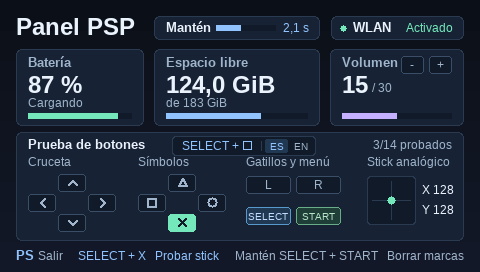
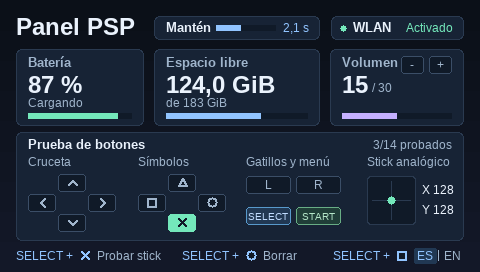
Group shortcuts in the panel footer

Changed region(s): [[0.0312, 0.9118, 0.9688, 0.9706], [0.3438, 0.5, 0.6562, 0.5882]]

diff --git a/panel.c b/panel.c
@@ -313,30 +313,10 @@ static const Button buttons[] = {
     {PSP_CTRL_VOLUP,    429,  56, 23, LABEL, "+"},
 };
 
-static void draw_button(uint32_t *pixels, const Button *button, const Panel *panel)
+static void draw_symbol(uint32_t *pixels, enum Symbol symbol, int cx, int cy,
+                        uint32_t ink, uint32_t fill)
 {
-    const int x = button->x, y = button->y, w = button->width;
-    const int cx = x + w / 2, cy = y + 8;
-    uint32_t rim = RGB(0x3b4e67);
-    uint32_t fill = well;
-    uint32_t ink = muted;
-
-    if (panel->pressed & button->mask) {
-        rim = fill = (panel->holding_complete & button->mask) ? hold_green : mint;
-        ink = well;
-    } else if (panel->validated & button->mask) {
-        rim = RGB(0x68ad85);
-        fill = RGB(0x203e38);
-        ink = RGB(0xb5e6c8);
-    } else if (panel->tested & button->mask) {
-        rim = RGB(0x5899cb);
-        fill = RGB(0x213853);
-        ink = RGB(0xc0dcff);
-    }
-    round_box(pixels, x, y, w, 18, 5, rim);
-    round_box(pixels, x + 1, y + 1, w - 2, 16, 4, fill);
-
-    switch (button->symbol) {
+    switch (symbol) {
     case UP:
         stroke(pixels, cx - 4, cy + 2, cx, cy - 2, ink);
         stroke(pixels, cx, cy - 2, cx + 4, cy + 2, ink);
@@ -370,12 +350,40 @@ static void draw_button(uint32_t *pixels, const Button *button, const Panel *pan
         box(pixels, cx - 5, cy - 4, 10, 10, ink);
         box(pixels, cx - 3, cy - 2, 6, 6, fill);
         break;
-    case LABEL: {
+    case LABEL:
+        break;
+    }
+}
+
+static void draw_button(uint32_t *pixels, const Button *button, const Panel *panel)
+{
+    const int x = button->x, y = button->y, w = button->width;
+    const int cx = x + w / 2, cy = y + 8;
+    uint32_t rim = RGB(0x3b4e67);
+    uint32_t fill = well;
+    uint32_t ink = muted;
+
+    if (panel->pressed & button->mask) {
+        rim = fill = (panel->holding_complete & button->mask) ? hold_green : mint;
+        ink = well;
+    } else if (panel->validated & button->mask) {
+        rim = RGB(0x68ad85);
+        fill = RGB(0x203e38);
+        ink = RGB(0xb5e6c8);
+    } else if (panel->tested & button->mask) {
+        rim = RGB(0x5899cb);
+        fill = RGB(0x213853);
+        ink = RGB(0xc0dcff);
+    }
+    round_box(pixels, x, y, w, 18, 5, rim);
+    round_box(pixels, x + 1, y + 1, w - 2, 16, 4, fill);
+
+    if (button->symbol == LABEL) {
         const Font *font = button->mask & (PSP_CTRL_SELECT | PSP_CTRL_START) ? &button_font : &small_font;
         draw_text(pixels, font, cx - text_width(font, button->label) / 2,
                   y + 13, button->label, ink);
-        break;
-    }
+    } else {
+        draw_symbol(pixels, button->symbol, cx, cy, ink, fill);
     }
 }
 
@@ -406,18 +414,36 @@ static void draw_background(uint32_t *pixels)
     }
 }
 
-static void draw_language_shortcut(uint32_t *pixels, enum PanelLanguage language)
+static const char shortcut_prefix[] = "SELECT +";
+enum { FOOTER_BASELINE = 260, FOOTER_ICON_GAP = 12 };
+
+static void draw_shortcut(uint32_t *pixels, int x, int action_offset, enum Symbol symbol)
 {
+    draw_text(pixels, &small_font, x, FOOTER_BASELINE, shortcut_prefix, blue);
+    draw_symbol(pixels, symbol, x + action_offset - FOOTER_ICON_GAP, FOOTER_BASELINE - 5, blue, well);
+}
+
+static void draw_panel_footer(uint32_t *pixels, enum PanelLanguage language)
+{
+    const char *stick = localized(language, "Probar stick", "Test stick");
+    const char *clear = localized(language, "Borrar", "Clear");
+    const int action_offset = text_width(&small_font, shortcut_prefix) + 2 * FOOTER_ICON_GAP;
+    const int clear_x = (PANEL_WIDTH - action_offset - text_width(&small_font, clear)) / 2;
+    const int language_x = 464 - action_offset - 50;
+    const int switch_x = language_x + action_offset;
     bool english = language == PANEL_ENGLISH;
-    round_box(pixels, 172, 136, 144, 20, 6, border);
-    round_box(pixels, 173, 137, 142, 18, 5, well);
-    draw_text(pixels, &small_font, 182, 150, "SELECT +", blue);
-    box(pixels, 243, 141, 9, 9, blue);
-    box(pixels, 244, 142, 7, 7, well);
-    box(pixels, 261, 141, 1, 10, border);
-    round_box(pixels, english ? 289 : 265, 139, 23, 14, 4, RGB(0x213853));
-    draw_text(pixels, &button_font, 270, 150, "ES", english ? muted : blue);
-    draw_text(pixels, &button_font, 294, 150, "EN", english ? blue : muted);
+
+    draw_shortcut(pixels, 16, action_offset, CROSS);
+    draw_text(pixels, &small_font, 16 + action_offset, FOOTER_BASELINE, stick, muted);
+
+    draw_shortcut(pixels, clear_x, action_offset, CIRCLE);
+    draw_text(pixels, &small_font, clear_x + action_offset, FOOTER_BASELINE, clear, muted);
+
+    draw_shortcut(pixels, language_x, action_offset, SQUARE);
+    round_box(pixels, switch_x + (english ? 27 : 0), FOOTER_BASELINE - 12, 23, 16, 4, RGB(0x213853));
+    box(pixels, switch_x + 24, FOOTER_BASELINE - 10, 1, 11, muted);
+    draw_text(pixels, &small_font, switch_x + 3, FOOTER_BASELINE, "ES", english ? muted : blue);
+    draw_text(pixels, &small_font, switch_x + 30, FOOTER_BASELINE, "EN", english ? blue : muted);
 }
 
 void panel_draw(uint32_t *pixels, const Panel *panel)
@@ -439,7 +465,6 @@ void panel_draw(uint32_t *pixels, const Panel *panel)
 
     card_box(pixels, 16, 132, 448, 109);
     draw_text(pixels, &label_font, 28, 149, localized(language, "Prueba de botones", "Button test"), text);
-    draw_language_shortcut(pixels, language);
     unsigned int count = 0;
     for (size_t i = 0; i < sizeof buttons / sizeof buttons[0]; ++i)
         count += (panel->tested & buttons[i].mask) != 0;
@@ -460,16 +485,7 @@ void panel_draw(uint32_t *pixels, const Panel *panel)
         draw_button(pixels, &buttons[i], panel);
     draw_stick(pixels, panel->stick_x, panel->stick_y);
 
-    const char *exit = localized(language, "Salir", "Exit");
-    const char *stick = localized(language, "SELECT + X   Probar stick", "SELECT + X   Test stick");
-    const char *reset = localized(language, "Mantén SELECT + START   Borrar marcas", "Hold SELECT + START   Clear marks");
-    int exit_right = 38 + text_width(&small_font, exit);
-    int reset_left = 464 - text_width(&small_font, reset);
-    int stick_left = (exit_right + reset_left - text_width(&small_font, stick)) / 2;
-    draw_text(pixels, &label_font, 16, 260, "PS", blue);
-    draw_text(pixels, &small_font, 38, 260, exit, muted);
-    draw_text(pixels, &small_font, stick_left, 260, stick, blue);
-    draw_text(pixels, &small_font, reset_left, 260, reset, muted);
+    draw_panel_footer(pixels, language);
 }
 
 static void draw_stick_map(uint32_t *pixels, const Panel *panel, const StickTest *test)

diff --git a/main.c b/main.c
@@ -161,10 +161,11 @@ int main(void)
     ButtonTest button_test = {0};
     StickTest stick = {0};
     const unsigned int stick_shortcut = PSP_CTRL_SELECT | PSP_CTRL_CROSS;
+    const unsigned int clear_shortcut = PSP_CTRL_SELECT | PSP_CTRL_CIRCLE;
     const unsigned int language_shortcut = PSP_CTRL_SELECT | PSP_CTRL_SQUARE;
-    const unsigned int panel_shortcut_buttons = stick_shortcut | language_shortcut | PSP_CTRL_CIRCLE;
+    const unsigned int panel_shortcut_buttons = stick_shortcut | clear_shortcut | language_shortcut;
     unsigned int previous_buttons = 0;
-    bool wait_panel_release = false;
+    bool waiting_for_release = false;
     uint64_t next_battery = 0, next_storage = 0, next_system = 0;
     bool needs_draw = true;
     unsigned int back_buffer = 0;
@@ -199,6 +200,7 @@ int main(void)
             continue;
         }
 
+        bool skip_button_test = waiting_for_release;
         if (have_pad) {
             unsigned int buttons = pad.Buttons;
             unsigned int newly_pressed = buttons & ~previous_buttons;
@@ -207,23 +209,31 @@ int main(void)
                     button_test_pause(&button_test, &panel);
                     stick = (StickTest){.phase = STICK_READY};
                     needs_draw = true;
+                } else if ((buttons & clear_shortcut) == clear_shortcut &&
+                           (newly_pressed & clear_shortcut)) {
+                    button_test_pause(&button_test, &panel);
+                    panel.tested = 0;
+                    panel.validated = 0;
+                    waiting_for_release = true;
+                    needs_draw = true;
                 } else if ((buttons & language_shortcut) == language_shortcut &&
                            (newly_pressed & language_shortcut)) {
                     button_test_pause(&button_test, &panel);
                     panel.language = panel.language == PANEL_SPANISH ? PANEL_ENGLISH : PANEL_SPANISH;
                     panel.language_unsaved = !save_language(panel.language);
-                    wait_panel_release = true;
+                    waiting_for_release = true;
                     needs_draw = true;
                 }
             } else if (newly_pressed & PSP_CTRL_CIRCLE) {
                 stick.phase = STICK_CLOSED;
-                wait_panel_release = true;
+                waiting_for_release = true;
                 needs_draw = true;
             } else if (newly_pressed & PSP_CTRL_CROSS) {
                 needs_draw |= stick_test_confirm(&stick);
             }
+            skip_button_test = waiting_for_release;
             if (!(buttons & panel_shortcut_buttons))
-                wait_panel_release = false;
+                waiting_for_release = false;
             previous_buttons = buttons;
 
             if (panel.stick_x != pad.Lx || panel.stick_y != pad.Ly) {
@@ -240,13 +250,14 @@ int main(void)
                 needs_draw |= stick_test_sample(&stick, pad.TimeStamp, pad.Lx, pad.Ly);
             else
                 needs_draw |= stick_test_pause(&stick);
-        } else if (!wait_panel_release) {
+        } else if (!skip_button_test) {
             SceCtrlData samples[CONTROLLER_HISTORY];
-            int requested = button_test.have_sample ? CONTROLLER_HISTORY : 1;
-            int count = read_button_samples(peek_driver, samples, requested);
-            if (count > 0 && count <= requested) {
+            int count = read_button_samples(peek_driver, samples, CONTROLLER_HISTORY);
+            if (count > 0 && count <= CONTROLLER_HISTORY) {
                 // The button test also checks for releases between screen updates.
-                for (int i = 0; i < count; ++i)
+                // After a shortcut, start with the newest sample and discard the buffered presses.
+                int first = button_test.have_sample ? 0 : count - 1;
+                for (int i = first; i < count; ++i)
                     needs_draw |= button_test_sample(&button_test, &panel,
                                                      samples[i].TimeStamp, samples[i].Buttons);
             } else {

diff --git a/button_test.c b/button_test.c
@@ -2,7 +2,6 @@
 
 enum {
     HOLD_US = BUTTON_HOLD_SECONDS * 1000000,
-    RESET_HOLD_US = 650000,
     MAX_SAMPLE_GAP_US = 25000,
 };
 
@@ -14,30 +13,9 @@ bool button_test_sample(ButtonTest *test, Panel *panel, uint32_t timestamp, unsi
     test->sample_time = timestamp;
     test->have_sample = true;
 
-    unsigned int previous = panel->pressed;
-    if (elapsed > MAX_SAMPLE_GAP_US) {
-        // A missing stretch of input cannot count as continuous pressure.
-        previous = 0;
-        test->reset_us = 0;
-    }
-
-    const unsigned int reset_buttons = PSP_CTRL_SELECT | PSP_CTRL_START;
+    // A missing stretch of input cannot count as continuous pressure.
+    unsigned int previous = elapsed <= MAX_SAMPLE_GAP_US ? panel->pressed : 0;
     unsigned int pressed = buttons & PANEL_BUTTONS;
-    bool clear_results = false;
-    if (!(pressed & reset_buttons))
-        test->wait_reset_release = false;
-    if (!test->wait_reset_release && (pressed & reset_buttons) == reset_buttons) {
-        test->reset_us = (previous & reset_buttons) == reset_buttons ? test->reset_us + elapsed : 0;
-        if (test->reset_us >= RESET_HOLD_US) {
-            clear_results = true;
-            test->wait_reset_release = true;
-            previous = 0;
-        }
-    } else {
-        test->reset_us = 0;
-    }
-    if (test->wait_reset_release)
-        pressed &= ~reset_buttons;
 
     unsigned int complete = 0;
     uint32_t longest = 0;
@@ -56,8 +34,8 @@ bool button_test_sample(ButtonTest *test, Panel *panel, uint32_t timestamp, unsi
 
     // Each button has its own timer. The shared bar shows the longest current hold.
     unsigned int progress = longest * 100 / HOLD_US;
-    unsigned int tested = (clear_results ? 0 : panel->tested) | pressed;
-    unsigned int validated = (clear_results ? 0 : panel->validated) | complete;
+    unsigned int tested = panel->tested | pressed;
+    unsigned int validated = panel->validated | complete;
     bool changed = panel->pressed != pressed || panel->tested != tested ||
                    panel->validated != validated || panel->holding_complete != complete ||
                    panel->hold_percent != progress;
@@ -73,7 +51,6 @@ bool button_test_pause(ButtonTest *test, Panel *panel)
 {
     bool changed = panel->pressed != 0 || panel->hold_percent != 0;
     test->have_sample = false;
-    test->reset_us = 0;
     panel->pressed = 0;
     panel->holding_complete = 0;
     panel->hold_percent = 0;

diff --git a/button_test.h b/button_test.h
@@ -9,9 +9,7 @@ enum { BUTTON_HOLD_SECONDS = 5 };
 typedef struct {
     uint32_t held_us[32];
     uint32_t sample_time;
-    uint32_t reset_us;
     bool have_sample;
-    bool wait_reset_release;
 } ButtonTest;
 
 bool button_test_sample(ButtonTest *test, Panel *panel, uint32_t timestamp, unsigned int buttons);

diff --git a/README.es.md b/README.es.md
@@ -22,7 +22,7 @@ Probado en una **PSP-3004 con firmware 6.61 y ARK-5.2.2**. La aplicación usa fu
 
 En el panel principal, mantén **SELECT** y pulsa **□ (cuadrado)** para alternar entre español e inglés. La app guarda tu elección. Al abrirla por primera vez, usa el español si la PSP está en español y el inglés para el resto de idiomas de la consola.
 
-El panel reconoce 14 botones, incluidos **+** y **−**. Una pulsación deja la marca azul. Mantén el botón 5 segundos seguidos para que quede verde. Si se interrumpe la pulsación, su contador vuelve a cero. Mantén **SELECT + START** para borrar las marcas.
+El panel reconoce 14 botones, incluidos **+** y **−**. Una pulsación deja la marca azul. Mantén el botón 5 segundos seguidos para que quede verde. Si se interrumpe la pulsación, su contador vuelve a cero. Para borrar las marcas, mantén **SELECT** y pulsa **○ (círculo)**.
 
 Mantén **SELECT** y pulsa **X** para abrir la prueba del stick.
 

diff --git a/README.md b/README.md
@@ -22,7 +22,7 @@ Tested on a **PSP-3004 running firmware 6.61 with ARK-5.2.2**. The app uses [ARK
 
 Hold **SELECT** and press **□ (Square)** on the main panel to switch between English and Spanish. The app remembers your choice. The first time you open it, it uses Spanish if your PSP is set to Spanish and English for the other system languages.
 
-The panel recognizes 14 buttons, including **+** and **−**. A quick press marks a button blue. Hold it down for 5 seconds straight to turn it green. Releasing it early resets its timer. Hold **SELECT + START** to clear the marks.
+The panel recognizes 14 buttons, including **+** and **−**. A quick press marks a button blue. Hold it down for 5 seconds straight to turn it green. Releasing it early resets its timer. To clear the marks, hold **SELECT** and press **○ (Circle)**.
 
 Hold **SELECT** and press **X** to open the analog stick test.
 
